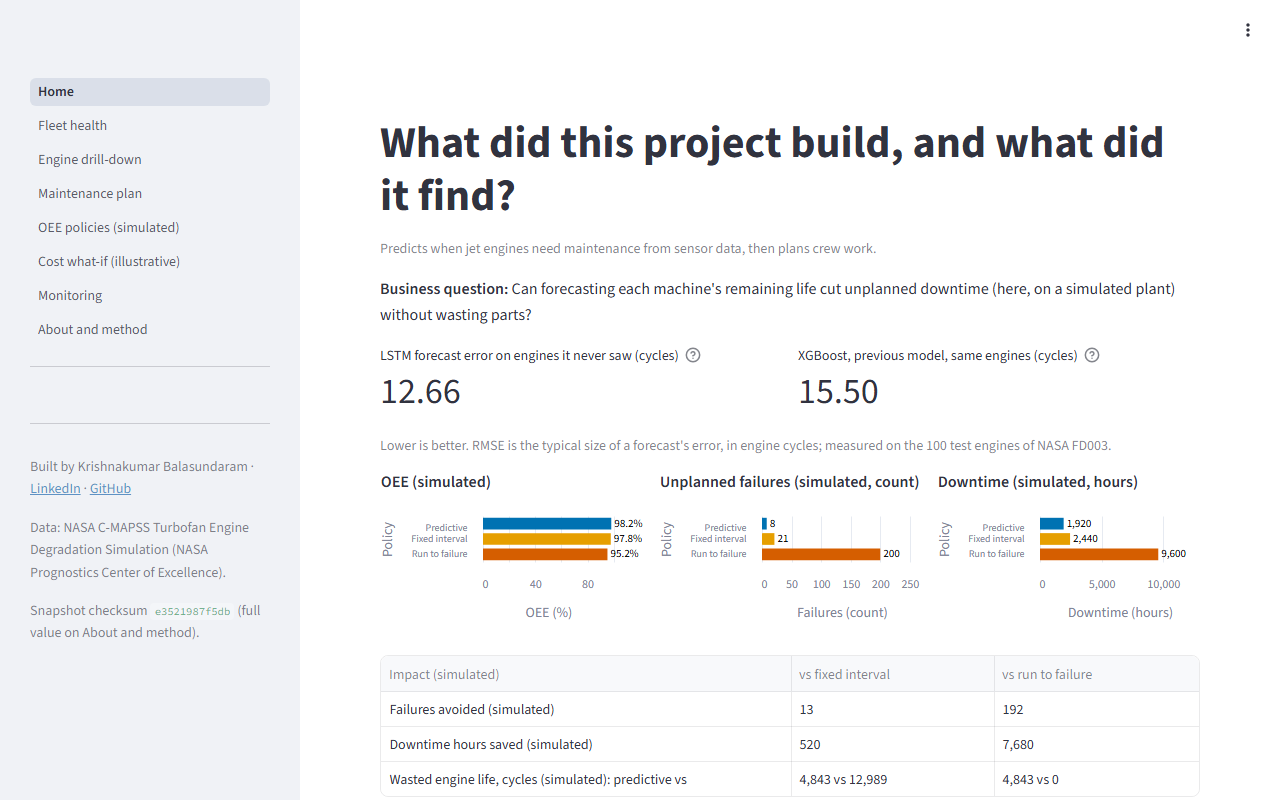
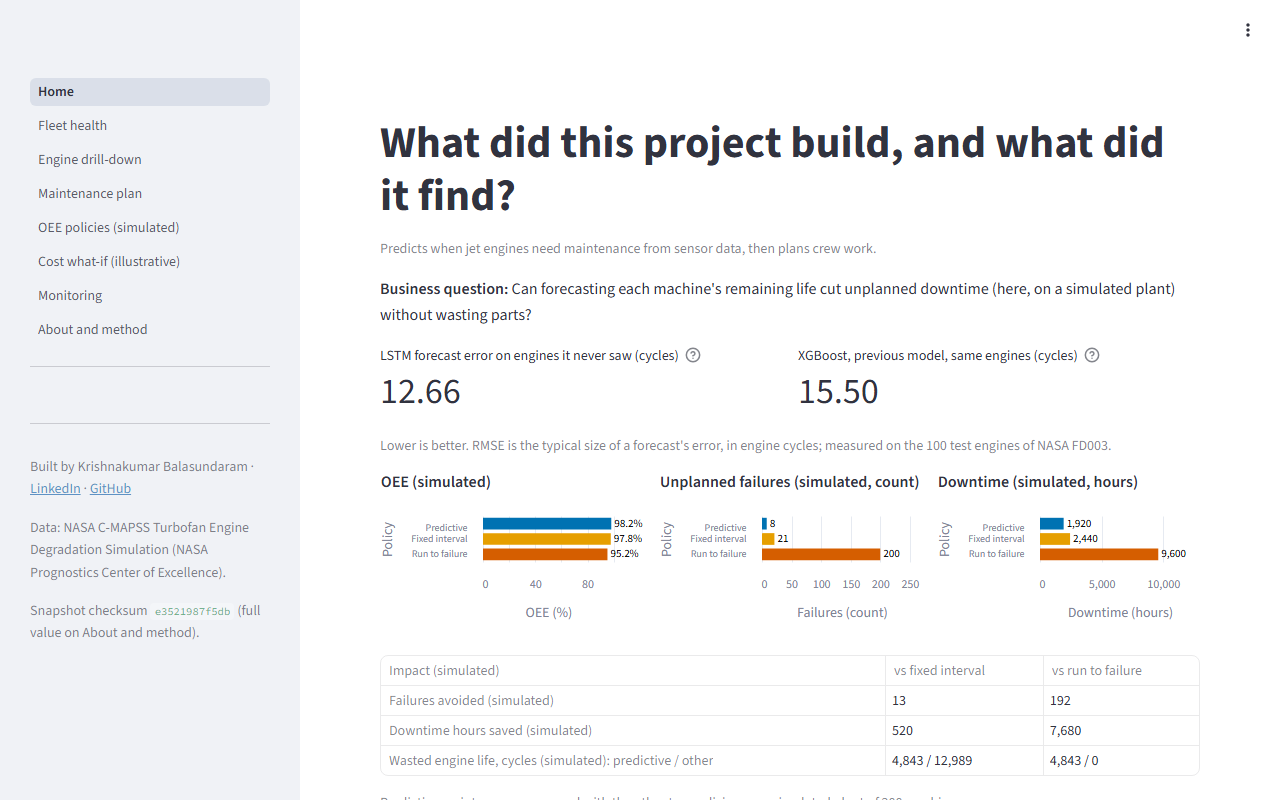
v1.1 review fixes (Chrome review, author-approved): phone impact table, plan explanation, Monitoring summary, cut-off labels
- Home: impact table is a static table, so its numbers show at 375 px (the grid scrolled them off-screen); wasted-life
  row 'predictive / other'; Engine drill-down in 'How to read this app'; simulated notice no longer repeats itself.
  Fold still holds at 1280 x 800 (table ends at 776 px, measured locally).
- Engine drill-down: one sentence on how the plan orders engines (lower edge, 2 cycles per plan day, 3 crew slots,
  ties either way); the alert label moved off the line's end.
- Monitoring: plain-English summary built from the data; the 5% C1 line and its note only for the rule-v2 scenarios
  (the note described rule v2 while rule v1 was selected); the two Phase 7 counts explained.
- Layout only, wording kept: Fleet coverage tile, Maintenance plan tiles in two rows, OEE table in two parts, About
  definitions as a wrapping list, 'n/a (JSON file)' rows, cost chart labels upright; no phase numbers on the plan page.
- Kept by decision: OEE axis 0-100 (approved cap), Fleet opens on FD001. Phone menu: closes after navigation on a
  real mobile browser (the review's 375 px desktop frame is not treated as a phone).
- Checks: app_checks reads static tables too (frames()); verify_phase8 and verify_v11 follow the new row label and
  notice (amendment recorded in v11_spec.json). Phase 8 5/5, v1.1 no failures, Phase 9 code checks pass, 149 tests.

diff --git a/app/views/monitoring.py b/app/views/monitoring.py
@@ -13,10 +13,13 @@ import common as C
 C.header("monitoring", "Each 8-hour shift the flow checks the incoming sensor data for drift and the model's errors once "
                        "failures are known, and raises a retraining flag. On clean data the flag should stay quiet.")
 
-st.caption(C.plain("drift"))
-
 runs = C.load("monitoring_runs.csv")
 target, limit = C.fact("p7_drift_target"), C.fact("c1_limit")
+
+# plain-English summary first (review 2026-11-15: the page was hard to read without the project's vocabulary);
+# filled once the results below are computed, so every claim in it comes from the data
+summary = st.container()
+st.caption(C.plain("drift"))
 SCEN = {"Phase 7: FD001/FD003, rule v1": "phase7_v1",
         "Phase 7b: FD002/FD004 synchronized, rule v2": "phase7b_v2_synchronized",
         "Phase 7b: FD002/FD004 staggered, rule v2": "phase7b_v2_staggered"}
@@ -32,6 +35,8 @@ c1.caption(f"{int(tested.any_drifted.astype(bool).sum())} of {len(tested)} teste
            f"{'met' if fa <= target else '**not met**'}. Cause traced to a reference that matched engine age but not wear.")
 c2.metric("Phase 7 runs flagged for retraining", f"{int(p7.needs_retraining.sum())} of {len(p7)}",
           help="Runs with needs_retraining set (drift, error ratio or interval misses) in the Phase 7 clean replay.")
+c2.caption("Counted over every run. The false-alarm rate on the left counts only the runs that had a drift test, "
+           "so the two figures use different totals.")
 
 rows = []
 for fleet in ("synchronized", "staggered"):
@@ -44,6 +49,13 @@ for fleet in ("synchronized", "staggered"):
 c1tab = pd.DataFrame(rows)
 st.dataframe(c1tab, hide_index=True, width="stretch")
 failed = sorted(set(c1tab[c1tab.Result == "FAIL"].Dataset))
+passed = sorted(set(c1tab.Dataset) - set(failed))
+summary.info(
+    "**In short:** the model gets a health check every shift. Two alarm rules were tested on healthy engines, where a "
+    f"good alarm should stay quiet. The first rule raised false alarms on {C.pct(fa)} of tested runs against a "
+    f"{C.pct(target, 0)} target ({'met' if fa <= target else 'not met'}). The second rule, fixed in advance, stayed "
+    f"within its {C.pct(limit, 0)} limit on {', '.join(passed) or 'no dataset'} and failed on {', '.join(failed) or 'no dataset'}. "
+    "Every result is shown below as measured, not re-tuned.")
 st.markdown(f"Phase 7b's rule was pre-registered (fixed on validation engines before any FD002/FD004 test replay). "
             f"C1 passes on {', '.join(sorted(set(c1tab.Dataset) - set(failed))) or 'no dataset'} and **FAILS on "
             f"{', '.join(failed) or 'no dataset'}**; the likely cause is a mix of two fault modes the expected sensor levels "
@@ -71,8 +83,17 @@ if C.has_rows(r, "runs"):
                  alt.Tooltip("share:Q", title="Runs flagged, last 10 (%)", format=".0f")])
     # no line-end labels: the lines end at the same point and the labels collided at phone width (D5.5);
     # the legend names each line by colour and dash
-    lim =alt.Chart().mark_rule(color=C.OKABE_ITO["black"], strokeDash=[2, 2]).encode(y=alt.datum(100 * limit))
-    lim_lab = alt.Chart().mark_text(align="left", dx=4, dy=-6).encode(x=alt.value(0), y=alt.datum(100 * limit),
-                                                                     text=alt.value(f"{C.pct(limit, 0)} limit"))
-    st.altair_chart(alt.layer(lines, lim, lim_lab).properties(height=300), width="stretch")
-    st.caption(f"Shift: {C.define('shift')} Clean-run flag rate: {C.define('clean_run_flag_rate')}")
+    layers = [lines]
+    if scen != "phase7_v1":  # the C1 limit belongs to the Phase 7b rule; Phase 7 had a drift target instead
+        lim = alt.Chart().mark_rule(color=C.OKABE_ITO["black"], strokeDash=[2, 2]).encode(y=alt.datum(100 * limit))
+        lim_lab = alt.Chart().mark_text(align="left", dx=4, dy=-6).encode(x=alt.value(0), y=alt.datum(100 * limit),
+                                                                         text=alt.value(f"{C.pct(limit, 0)} limit (C1)"))
+        layers += [lim, lim_lab]
+    st.altair_chart(alt.layer(*layers).properties(height=300), width="stretch")
+    # the note matches the scenario shown (review 2026-11-15: it described rule v2 while rule v1 was selected)
+    if scen == "phase7_v1":
+        st.caption(f"Shift: {C.define('shift')} Phase 7, rule v1: a run is flagged when drift, the error ratio or "
+                   f"interval misses trip; its pre-registered target was on drift false alarms ({C.pct(target, 0)}), so "
+                   "no flag limit is drawn.")
+    else:
+        st.caption(f"Shift: {C.define('shift')} Clean-run flag rate: {C.define('clean_run_flag_rate')}")

diff --git a/app/views/engine.py b/app/views/engine.py
@@ -17,6 +17,7 @@ fleet = C.load("fleet.csv")
 plan = C.load("plan.csv")
 thr = C.fact("alert_threshold")
 crews = C.fact("crews_per_day")
+cycles_per_day = C.fact("cycles_per_day")
 nominal = C.fact("interval_nominal")
 cap = C.fact("rul_cap")
 
@@ -71,6 +72,10 @@ if service == "Service today":
     st.caption(f"Service today (day 0, one of {crews} crew slots). Day 0 is the last observed day.")
 elif service.startswith("Service day"):
     st.caption(f"{service} (one of {crews} crew slots that day). Day 0 is the last observed day.")
+if service != "Not flagged":
+    st.caption(f"How the plan orders engines: it books from each engine's lower edge (the pessimistic end of the "
+               f"interval), not from the middle forecast. One plan day is {cycles_per_day} engine cycles and has {crews} crew "
+               "slots; engines with the same lower edge are equally urgent and can be booked in either order.")
 st.caption("The chart replays the forecast shift by shift; the flag and the plan use the final forecast on Fleet health, "
            "which can differ slightly at the last cycle (why: About and method).")
 
@@ -83,8 +88,9 @@ band = base.mark_area(opacity=0.35, color=C.OKABE_ITO["sky"]).encode(
 line = base.mark_line(color=C.OKABE_ITO["blue"], strokeWidth=2).encode(
     y="rul_mc_mean:Q", tooltip=[alt.Tooltip("cycle:Q", title="Cycle"), alt.Tooltip("rul_mc_mean:Q", title="Forecast (cycles)", format=".1f")])
 alert = alt.Chart().mark_rule(color=C.OKABE_ITO["black"], strokeDash=[4, 3]).encode(y=alt.datum(thr))
-alert_lab = alt.Chart().mark_text(align="right", dx=-4, dy=-6, color=C.OKABE_ITO["black"]).encode(
-    x=alt.value({"expr": "width"}), y=alt.datum(thr), text=alt.value(f"Alert: {thr} cycles"))
+# label at the left end: the forecast line ends at the right, near the alert line (review 2026-11-15)
+alert_lab = alt.Chart().mark_text(align="left", dx=4, dy=-6, color=C.OKABE_ITO["black"]).encode(
+    x=alt.value(0), y=alt.datum(thr), text=alt.value(f"Alert: {thr} cycles"))
 st.altair_chart(alt.layer(band, line, alert, alert_lab).properties(height=260), width="stretch")
 st.caption(f"Blue line: forecast remaining life. Light band: its {C.pct(nominal, 0)} interval. Dashed line: the alert "
            "threshold; the engine is flagged when the band's lower edge reaches it.")

diff --git a/dashboards/verify_v11.py b/dashboards/verify_v11.py
@@ -193,7 +193,7 @@ def check_home(T, card: Card, app: Path = APP, snap: Path = SNAP) -> None:
     with app_env(snap):
         at = new_test(app, "home")
         secs = timed_run(at)
-        errs, shown, labels, tabs, text = errors(at), metrics(at), A.chart_labels(at), [d.value for d in at.dataframe], A.texts(at)
+        errs, shown, labels, tabs, text = errors(at), metrics(at), A.chart_labels(at), A.frames(at), A.texts(at)
         specs = A.charts(at)
     # V1.1: every bar label and every impact-table cell vs the recomputation from machines_phase6.csv
     probs, n = [], 0
@@ -227,9 +227,10 @@ def check_home(T, card: Card, app: Path = APP, snap: Path = SNAP) -> None:
     shown_titles = list(labels)
     miss = [t for t in shown_titles if "simulated" not in t.lower()] + [t for t in titles if t not in shown_titles]
     has_table = any("Impact (simulated)" in t.columns for t in tabs)
-    card.set("V3.1", not miss and has_table and "Simulated." in text,
+    notice = "Simulated plant: production, downtime and OEE are not measured data"  # the warning box (review fix 2026-11-15)
+    card.set("V3.1", not miss and has_table and notice in text,
              f"Home: {len(shown_titles)} chart titles and the impact table say 'simulated', plus the simulated notice"
-             if not miss and has_table and "Simulated." in text else
+             if not miss and has_table and notice in text else
              f"Home: chart titles without 'simulated' or missing {miss}; impact header present {has_table}")
     _chart_and_time(card, "home", specs, secs)
 
@@ -630,7 +631,7 @@ def live(url: str) -> dict:
         box = pg.evaluate("""() => {
             const b = sel => [...document.querySelectorAll(sel)].map(e => Math.round(e.getBoundingClientRect().bottom));
             return {viewport: window.innerHeight, metrics: b('[data-testid="stMetric"]'),
-                    charts: b('[data-testid="stVegaLiteChart"]').slice(0, 3), table: b('[data-testid="stDataFrame"]').slice(0, 1)};
+                    charts: b('[data-testid="stVegaLiteChart"]').slice(0, 3), table: b('[data-testid="stTable"], [data-testid="stDataFrame"]').slice(0, 1)};
         }""")
         pg.screenshot(path=str(FIGS / "home_1280x800.png"))
         parts = box["metrics"][:2] + box["charts"] + box["table"]

diff --git a/app/views/home.py b/app/views/home.py
@@ -62,14 +62,15 @@ fl = {p: int(pooled.loc[p, "unplanned_failures"]) for p in ORDER}
 dt = {p: float(pooled.loc[p, "downtime_hours"]) for p in ORDER}
 wc = {p: int(pooled.loc[p, "wasted_cycles"]) for p in ORDER}
 # a small table, so each number says what it is compared with (tiles would cut the long labels off)
-st.dataframe(pd.DataFrame([
+# st.table wraps its text, so the numbers stay visible at phone width (a data grid scrolled them off-screen; review 2026-11-15)
+st.table(pd.DataFrame([
     {"Impact (simulated)": "Failures avoided (simulated)", "vs fixed interval": f"{fl['Fixed interval'] - fl['Predictive']:,}",
      "vs run to failure": f"{fl['Run to failure'] - fl['Predictive']:,}"},
     {"Impact (simulated)": "Downtime hours saved (simulated)", "vs fixed interval": f"{dt['Fixed interval'] - dt['Predictive']:,.0f}",
      "vs run to failure": f"{dt['Run to failure'] - dt['Predictive']:,.0f}"},
-    {"Impact (simulated)": "Wasted engine life, cycles (simulated): predictive vs", "vs fixed interval": f"{wc['Predictive']:,} vs {wc['Fixed interval']:,}",
-     "vs run to failure": f"{wc['Predictive']:,} vs {wc['Run to failure']:,}"},
-]), hide_index=True, width="stretch")
+    {"Impact (simulated)": "Wasted engine life, cycles (simulated): predictive / other", "vs fixed interval": f"{wc['Predictive']:,} / {wc['Fixed interval']:,}",
+     "vs run to failure": f"{wc['Predictive']:,} / {wc['Run to failure']:,}"},
+]).set_index("Impact (simulated)"))
 st.caption(f"Predictive maintenance compared with the other two policies, on a simulated plant of {machines} machines.")
 
 C.simulated_notice()
@@ -78,7 +79,7 @@ C.explain_why("home")
 
 st.subheader("How to read this app (one minute)")
 st.markdown("\n".join(f"- **{name}:** {C.BUSINESS[page]}" for page, name in (
-    ("fleet", "Fleet health"), ("plan", "Maintenance plan"), ("oee", "OEE policies (simulated)"),
+    ("fleet", "Fleet health"), ("engine", "Engine drill-down"), ("plan", "Maintenance plan"), ("oee", "OEE policies (simulated)"),
     ("cost", "Cost what-if (illustrative)"), ("monitoring", "Monitoring"), ("about", "About and method"))))
 st.caption("Open a page from the menu on the left (on a phone, the arrow at the top left).")
 

diff --git a/app/views/plan.py b/app/views/plan.py
@@ -11,7 +11,7 @@ import streamlit as st
 import common as C
 
 C.header("plan", "Engines whose lower 90% bound is at or below the alert threshold, booked onto crews by the CP-SAT "
-                 "scheduler at the last observed cycle (Phase 6).")
+                 "scheduler at the last observed cycle.")
 
 st.caption(f"{C.plain('CP-SAT')} {C.plain('90% interval')}")
 
@@ -30,14 +30,14 @@ for ds in datasets:
     p = plan[plan.dataset == ds]
     st.subheader(ds)
     booked = p[p.scheduled_day.notna()]
-    c = st.columns(5)
+    c = st.columns(3) + st.columns(2)  # two rows: five tiles in one row cut their labels off (review 2026-11-15)
     c[0].metric(f"Crew slots in the horizon ({ds})", str(crews * days), help=f"{crews} crews a day x {days} days (assumption).")
     c[1].metric(f"Engines flagged ({ds})", str(len(p)), help=C.define("flagged"))
     c[2].metric(f"Scheduled ({ds})", str(len(booked)), help="Flagged engines booked onto a crew within the horizon.")
     c[3].metric(f"Flagged, no crew in horizon ({ds})", str(int((p.status == "flagged, no crew in horizon").sum())),
                 help="Flagged engines left over because every crew slot in the horizon is taken by a more urgent engine.")
     c[4].metric(f"Solver status ({ds})", C.fact(f"solver_status_{ds}"),
-                help="CP-SAT status; OPTIMAL means no cheaper plan exists under the cost weights (proved again in Phase 6 "
+                help="CP-SAT status; OPTIMAL means no cheaper plan exists under the cost weights (proved again "
                      "by a second method).")
     if not C.has_rows(booked, f"scheduled {ds} engines"):
         continue
@@ -67,7 +67,7 @@ for ds in datasets:
             "engine_id": "Engine", "risk": "Risk", "reason": "Why flagged", "scheduled_day": "Plan day", "status": "Status"}),
             hide_index=True, width="stretch")
 
-st.subheader("Work orders in the predictive replay (Phase 6)")
+st.subheader("Work orders in the predictive replay")
 o = orders[orders.dataset.isin(datasets)]
 if C.has_rows(o, "work orders"):
     st.dataframe(o.groupby(["dataset", "status"]).size().rename("Work orders").reset_index()

diff --git a/app/views/oee.py b/app/views/oee.py
@@ -41,10 +41,14 @@ if C.has_rows(t.dropna(subset=["oee"]), "policies"):
         show[c] = show[c].map(C.pct)
     for c in ("unplanned_failures", "planned_services", "downtime_hours", "wasted_cycles"):
         show[c] = show[c].astype(int)
-    st.dataframe(show.rename(columns={"policy": "Policy", "availability": "Availability", "performance": "Performance",
-                                      "quality": "Quality", "oee": "OEE", "unplanned_failures": "Unplanned failures",
-                                      "planned_services": "Planned services", "downtime_hours": "Downtime (hours)",
-                                      "wasted_cycles": "Wasted life (cycles)"}), hide_index=True, width="stretch")
+    show = show.rename(columns={"policy": "Policy", "availability": "Availability", "performance": "Performance",
+                                "quality": "Quality", "oee": "OEE", "unplanned_failures": "Unplanned failures",
+                                "planned_services": "Planned services", "downtime_hours": "Downtime (hours)",
+                                "wasted_cycles": "Wasted life (cycles)"})
+    # two tables: nine columns in one cut the last one off at laptop width (review 2026-11-15)
+    st.dataframe(show[["Policy", "Availability", "Performance", "Quality", "OEE"]], hide_index=True, width="stretch")
+    st.dataframe(show[["Policy", "Unplanned failures", "Planned services", "Downtime (hours)", "Wasted life (cycles)"]],
+                 hide_index=True, width="stretch")
 
 gaps = pol[pol.kind == "gap"].set_index("policy")
 n_machines = int(pol[(pol.scope == "Pooled") & (pol.policy == "Predictive")].machines.iloc[0])

diff --git a/dashboards/app_checks.py b/dashboards/app_checks.py
@@ -83,13 +83,23 @@ def texts(at: AppTest) -> str:
         out += [str(e.value) for e in getattr(at, kind)]
     for m in at.metric:
         out += [m.label, str(m.value), m.help or ""]
-    for d in at.dataframe:
-        out += [" ".join(map(str, d.value.columns)), d.value.to_string()]
+    for d in frames(at):
+        out += [" ".join(map(str, d.columns)), d.to_string()]
     for c in charts(at):
         out.append(json.dumps(c))
     for e in at.get("expander"):
         out.append(str(e.label))
     return "\n".join(out)
+
+
+def frames(at: AppTest) -> list:
+    """Every table a page shows: interactive data grids and static tables (v1.1: Home's impact table is static so it
+    wraps at phone width); a static table's index is turned back into its first column."""
+    out = [d.value for d in at.dataframe]
+    for t in at.table:
+        v = t.value
+        out.append(v.reset_index() if v.index.name else v)
+    return out
 
 
 def charts(at: AppTest) -> list[dict]:
@@ -289,7 +299,7 @@ def rendered_numbers() -> dict:
             at = run_page(page, widgets=w or None)
             out.setdefault(page, {})[json.dumps(w, sort_keys=True)] = {
                 "metrics": {m.label: str(m.value) for m in at.metric},
-                "tables": [d.value for d in at.dataframe],
+                "tables": frames(at),
                 "charts": chart_labels(at),
                 "text": texts(at)}
     return out

diff --git a/dashboards/verify_phase8.py b/dashboards/verify_phase8.py
@@ -295,8 +295,9 @@ def expected_tables(T, page: str, view: dict) -> list[tuple[str, list]]:
         for col, other in (("vs fixed interval", "Fixed interval"), ("vs run to failure", "Run to failure")):
             cells += [(("Failures avoided (simulated)",), col, f"{o[other]['unplanned_failures'] - o['Predictive']['unplanned_failures']:,}"),
                       (("Downtime hours saved (simulated)",), col, f"{o[other]['downtime_hours'] - o['Predictive']['downtime_hours']:,.0f}"),
-                      (("Wasted engine life, cycles (simulated): predictive vs",), col,
-                       f"{o['Predictive']['wasted_cycles']:,} vs {o[other]['wasted_cycles']:,}")]
+                      # amended 2026-11-15, author-approved review fix: label ends 'predictive / other', cells 'a / b'
+                      (("Wasted engine life, cycles (simulated): predictive / other",), col,
+                       f"{o['Predictive']['wasted_cycles']:,} / {o[other]['wasted_cycles']:,}")]
         checks.append(("business impact table", cells))
     if page == "fleet":
         dss = ["FD001", "FD003"] if view["dataset"] == "Both" else [view["dataset"]]

diff --git a/app/views/about.py b/app/views/about.py
@@ -58,9 +58,9 @@ st.caption(f"Monte Carlo dropout is random: with {C.fact('interval_passes')} pas
            "use the published draw set, the one the plan acted on.")
 
 st.subheader("Definitions")
-st.dataframe(pd.DataFrame([{"Term": k.replace("_", " "), "Definition": v} for k, v in C.fact("definitions").items()]),
-             hide_index=True, width="stretch")
+# a list, not a grid: long definitions wrap instead of being cut off (review 2026-11-15)
+st.markdown("\n".join(f"- **{k.replace('_', ' ')}:** {v}" for k, v in C.fact("definitions").items()))
 
 st.subheader("Snapshot files")
-st.dataframe(pd.DataFrame([{"File": n, "Rows": f["rows"], "sha256": f["sha256"][:16]} for n, f in sorted(man["files"].items())]),
+st.dataframe(pd.DataFrame([{"File": n, "Rows": "n/a (JSON file)" if f["rows"] is None else f"{f['rows']:,}", "sha256": f["sha256"][:16]} for n, f in sorted(man["files"].items())]),
              hide_index=True, width="stretch")

diff --git a/app/common.py b/app/common.py
@@ -174,8 +174,10 @@ def explain_why(page: str) -> None:
 
 
 def simulated_notice() -> None:
-    st.warning(f"**Simulated.** {fact('simulation_notice')}. OEE = Availability x Performance x Quality "
-               "from a simulated plant driven by the real NASA engine lives and the real forecasts.")
+    # the notice text starts 'SIMULATED plant: ...'; shown once in bold, not after a second 'Simulated.' (review 2026-11-15)
+    notice = fact("simulation_notice").replace("SIMULATED plant", "Simulated plant", 1)
+    st.warning(f"**{notice}.** OEE = Availability x Performance x Quality from a simulated plant driven by the real "
+               "NASA engine lives and the real forecasts.")
 
 
 def has_rows(df: pd.DataFrame, what: str) -> bool:

diff --git a/app/views/cost.py b/app/views/cost.py
@@ -53,7 +53,7 @@ with results:
     d = pd.DataFrame({"policy": ORDER, "cost": [r["totals"][p] for p in ORDER]})
     d["label"] = d.cost.map(money)
     bars = alt.Chart(d).mark_bar().encode(
-        x=alt.X("policy:N", title="Maintenance policy", sort=ORDER),
+        x=alt.X("policy:N", title="Maintenance policy", sort=ORDER, axis=alt.Axis(labelAngle=0)),
         y=alt.Y("cost:Q", title="Total cost (illustrative, $)"),
         color=alt.Color("policy:N", title="Policy", sort=ORDER, scale=alt.Scale(domain=ORDER, range=COLOURS), legend=None),
         tooltip=[alt.Tooltip("policy:N", title="Policy"), alt.Tooltip("label:N", title="Total cost (illustrative)")])

diff --git a/app/views/fleet.py b/app/views/fleet.py
@@ -22,7 +22,7 @@ for ds in datasets:
     if not C.has_rows(f, f"{ds} engines"):
         continue
     st.subheader(f"{ds}: {C.fact('published_model')} forecasts")
-    c1, c2, c3 = st.columns(3)
+    c1, c2, c3 = st.columns([1, 1, 2])  # the coverage label needs the room (it was cut off; review 2026-11-15)
     c1.metric(f"Engines ({ds})", str(len(f)), help="Test engines in the dataset, each at its last observed cycle.")
     c2.metric(f"Flagged ({ds})", str(int(f.flagged.sum())), help=C.define("flagged"))
     c3.metric(f"Interval coverage on these engines ({ds})", C.pct(f.inside_interval.mean()), help=C.define("coverage"))
